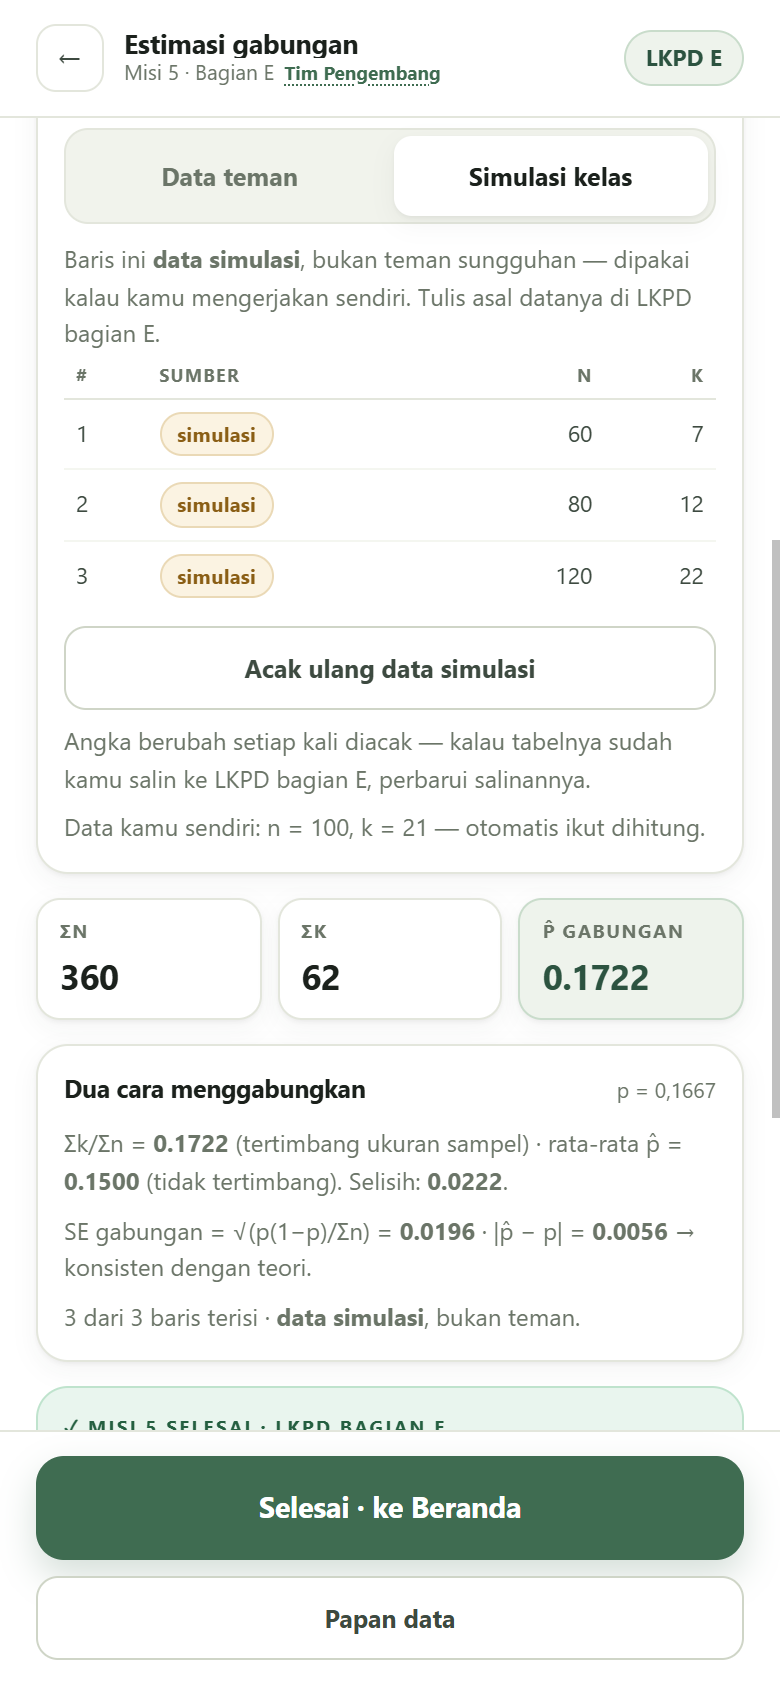
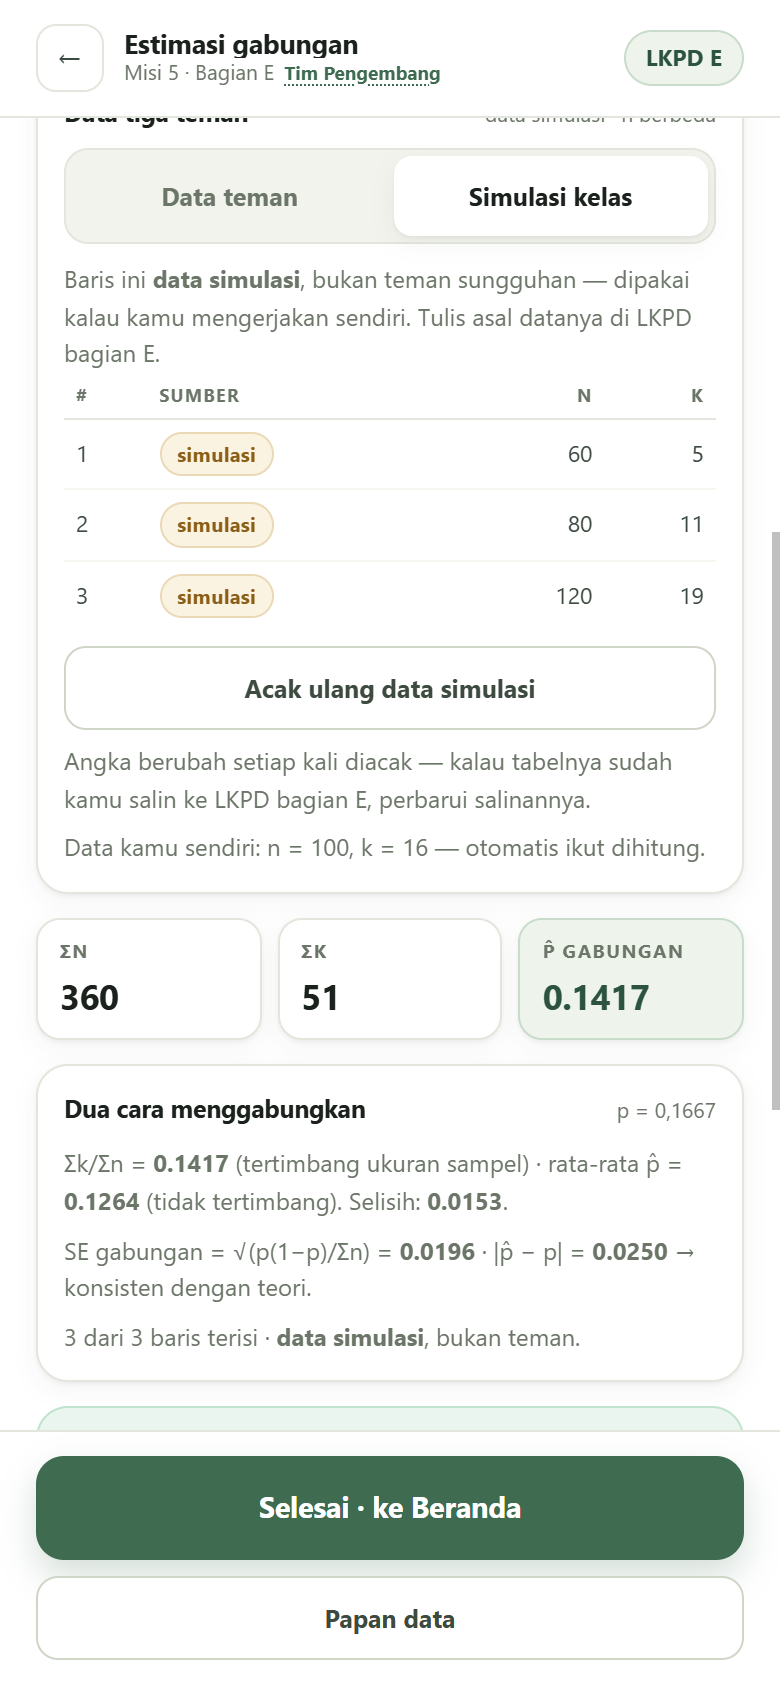
feat: pratinjau tabel kosong di mode Simulasi kelas Misi 5
Tabel tiga baris tetap tampil (n dan k berisi —) sebelum siswa menekan
Isi data simulasi, jadi bentuk tabelnya sudah terlihat lebih dulu.
Sekalian simpan artefak desain Misi 5 (mockup kontrol + screenshot).

diff --git a/docs/mockup-m5-kontrol.html b/docs/mockup-m5-kontrol.html
@@ -1,0 +1,216 @@
+<!DOCTYPE html>
+<html lang="id">
+<head>
+<meta charset="UTF-8">
+<meta name="viewport" content="width=device-width, initial-scale=1.0">
+<title>Mockup — kontrol sumber data Misi 5</title>
+<style>
+:root{
+  --paper:#f6f7f2;--bg:#fff;--ink:#1b211c;--ink-2:#3d4a40;--muted:#6b7568;
+  --line:#e3e6dc;--line-2:#cfd5c7;--accent:#3f6c51;--accent-soft:#eef3ec;--accent-line:#c9dccb;
+  --ochre:#8a5e15;--ochre-soft:#fbf3e2;--ochre-line:#ead9b6;
+  --ok:#2e7d53;--ok-soft:#e9f5ee;--ok-line:#bfe3cd;--bad:#a6403a;--bad-soft:#fbeceb;
+  --r:16px;--r-sm:12px;
+  --sh:0 1px 2px rgba(27,33,28,.05),0 4px 12px rgba(27,33,28,.05);
+  --sh-pop:0 10px 28px rgba(27,33,28,.10),0 2px 6px rgba(27,33,28,.05);
+}
+*{box-sizing:border-box}
+body{margin:0;background:#eef0e8;color:var(--ink);padding:28px 24px 40px;
+  font-family:"Segoe UI Variable Display","Segoe UI",system-ui,-apple-system,Roboto,Arial,sans-serif;
+  -webkit-font-smoothing:antialiased;line-height:1.45}
+.page-head{max-width:840px;margin:0 auto 22px}
+.page-head h1{font-size:20px;letter-spacing:-.02em;margin:0 0 4px}
+.page-head p{margin:0;font-size:13px;color:var(--muted)}
+.row{display:grid;grid-template-columns:repeat(2,390px);gap:20px 22px;align-items:start;justify-content:center;max-width:840px;margin:0 auto}
+.frame{width:390px;flex:0 0 auto;background:var(--bg);border:1px solid var(--line);border-radius:22px;
+  box-shadow:var(--sh-pop);overflow:hidden;display:flex;flex-direction:column}
+.f-head{padding:11px 14px;border-bottom:1px solid var(--line);background:#fcfdfa;display:flex;align-items:center;gap:8px}
+.f-tag{font-size:10px;font-weight:800;letter-spacing:.1em;text-transform:uppercase;color:#fff;
+  background:var(--ink);border-radius:6px;padding:3px 7px}
+.f-tag.rec{background:var(--accent)}
+.f-name{font-size:12.5px;font-weight:700}
+.f-body{padding:14px;display:flex;flex-direction:column;gap:11px;min-height:392px}
+.foot{padding:10px 14px;border-top:1px solid var(--line);background:#fcfdfa;font-size:11.5px;color:var(--muted)}
+.foot b{color:var(--ink-2)}
+
+.card{border:1px solid var(--line);border-radius:var(--r);background:#fff;box-shadow:var(--sh);overflow:hidden}
+.card-head{display:flex;align-items:center;justify-content:space-between;gap:8px;padding:10px 12px;border-bottom:1px solid var(--line)}
+.card-head b{font-size:13px}
+.card-head span{font-size:11px;color:var(--muted)}
+.card-in{padding:11px 12px}
+table{width:100%;border-collapse:collapse;font-size:12px}
+th{font-size:10px;letter-spacing:.06em;text-transform:uppercase;color:var(--muted);text-align:left;
+  padding:6px 6px;border-bottom:1px solid var(--line);font-weight:700}
+th.rt,td.rt{text-align:right}
+td{padding:6px 6px;border-bottom:1px solid #f0f2eb}
+tr:last-child td{border-bottom:0}
+.inp{width:100%;border:1px solid var(--line-2);border-radius:9px;padding:8px 8px;font:inherit;font-size:12px;background:#fff}
+.inp.num{text-align:right}
+.inp.ro{background:#f7f8f4;color:var(--ink-2)}
+.note{margin:8px 0 0;font-size:11.5px;color:var(--muted);line-height:1.5}
+.chip{display:inline-flex;align-items:center;gap:4px;border-radius:999px;padding:3px 8px;font-size:10.5px;font-weight:700}
+.chip.sim{background:var(--ochre-soft);color:var(--ochre);border:1px solid var(--ochre-line)}
+.chip.ok{background:var(--ok-soft);color:var(--ok);border:1px solid var(--ok-line)}
+
+/* A. toggle switch */
+.tgl-row{display:flex;align-items:center;justify-content:space-between;gap:10px;padding:2px 0}
+.tgl-lab{font-size:12px;font-weight:700;line-height:1.3}
+.tgl-lab em{display:block;font-style:normal;font-weight:400;font-size:10.5px;color:var(--muted)}
+.switch{width:48px;height:28px;border-radius:999px;background:var(--line-2);position:relative;flex:0 0 auto;transition:.18s}
+.switch.on{background:var(--accent)}
+.switch i{position:absolute;top:3px;left:3px;width:22px;height:22px;border-radius:50%;background:#fff;
+  box-shadow:0 1px 3px rgba(0,0,0,.25);transition:.18s}
+.switch.on i{left:23px}
+
+/* B. segmented */
+.segc{display:flex;background:#f1f3ec;border:1px solid var(--line);border-radius:12px;padding:3px;gap:3px}
+.segc button{flex:1;border:0;background:transparent;border-radius:9px;padding:10px 8px;font-size:12px;font-weight:700;color:var(--muted)}
+.segc button.on{background:#fff;color:var(--ink);box-shadow:var(--sh)}
+/* C. segmented 3 */
+.segc.three button{font-size:11px;padding:9px 4px}
+
+/* dropdown */
+.selwrap{position:relative}
+.selwrap select{width:100%;appearance:none;border:1px solid var(--line-2);border-radius:11px;background:#fff;
+  padding:11px 34px 11px 12px;font:inherit;font-size:12.5px;font-weight:650;color:var(--ink)}
+.selwrap:after{content:"▾";position:absolute;right:12px;top:50%;transform:translateY(-50%);color:var(--muted);font-size:12px;pointer-events:none}
+.cta{background:var(--accent);color:#fff;border-radius:12px;padding:13px;text-align:center;font-weight:800;font-size:13px}
+.cta.off{background:#e9ece3;color:#9aa294}
+.legend{max-width:840px;margin:22px auto 0;font-size:12px;color:var(--ink-2);line-height:1.6}
+.legend b{color:var(--ink)}
+</style>
+</head>
+<body>
+<div class="page-head">
+  <h1>Misi 5 — pilihan bentuk kontrol sumber data</h1>
+  <p>Frame 390 px, memakai token warna &amp; tipe yang sudah ada di index.html. Yang berubah hanya cara memilih sumber data.</p>
+</div>
+
+<div class="row">
+
+  <!-- A. TOGGLE -->
+  <div class="frame">
+    <div class="f-head"><span class="f-tag">A</span><span class="f-name">Toggle 2 keadaan</span></div>
+    <div class="f-body">
+      <div class="card">
+        <div class="card-head"><b>Data tiga teman</b><span>n dan k mereka</span></div>
+        <div class="card-in">
+          <div class="tgl-row">
+            <div class="tgl-lab">Pakai data simulasi<em>bukan teman — aktifkan kalau kamu buka sendiri</em></div>
+            <div class="switch"><i></i></div>
+          </div>
+        </div>
+      </div>
+      <div class="card">
+        <div class="card-in">
+          <table><thead><tr><th>#</th><th>nama</th><th class="rt">n</th><th class="rt">k</th></tr></thead><tbody>
+            <tr><td>1</td><td><input class="inp" value="Rani"></td><td class="rt"><input class="inp num" value="100"></td><td class="rt"><input class="inp num" value="17"></td></tr>
+            <tr><td>2</td><td><input class="inp" value="Bagas"></td><td class="rt"><input class="inp num" value="100"></td><td class="rt"><input class="inp num" value="14"></td></tr>
+            <tr><td>3</td><td><input class="inp" placeholder="nama"></td><td class="rt"><input class="inp num" placeholder="n"></td><td class="rt"><input class="inp num" placeholder="k"></td></tr>
+          </tbody></table>
+          <p class="note">Pilih "simulasi" → tiga baris terisi otomatis dan nama berganti chip <b>simulasi</b>.</p>
+        </div>
+      </div>
+      <div class="cta off">Isi 3 data teman dulu</div>
+    </div>
+    <div class="foot"><b>Kekuatan:</b> terlihat jelas, satu ketuk.<br><b>Kelemahan:</b> hanya dua keadaan — mode "tempel kode laporan" tidak punya tempat.</div>
+  </div>
+
+  <!-- B. SEGMENTED 2 -->
+  <div class="frame">
+    <div class="f-head"><span class="f-tag rec">B</span><span class="f-name">Segmented · 2 pilihan</span><span class="chip ok" style="margin-left:auto">usulan</span></div>
+    <div class="f-body">
+      <div class="card">
+        <div class="card-head"><b>Data tiga teman</b><span>n dan k mereka</span></div>
+        <div class="card-in">
+          <div class="segc">
+            <button class="on">Data teman</button>
+            <button>Tanpa teman</button>
+          </div>
+          <p class="note">Tanpa teman? Isi otomatis dengan data simulasi kelas.</p>
+        </div>
+      </div>
+      <div class="card">
+        <div class="card-in">
+          <table><thead><tr><th>#</th><th>nama</th><th class="rt">n</th><th class="rt">k</th></tr></thead><tbody>
+            <tr><td>1</td><td><input class="inp" value="Rani"></td><td class="rt"><input class="inp num" value="100"></td><td class="rt"><input class="inp num" value="17"></td></tr>
+            <tr><td>2</td><td><input class="inp" value="Bagas"></td><td class="rt"><input class="inp num" value="80"></td><td class="rt"><input class="inp num" value="11"></td></tr>
+            <tr><td>3</td><td><input class="inp" placeholder="nama"></td><td class="rt"><input class="inp num" placeholder="n"></td><td class="rt"><input class="inp num" placeholder="k"></td></tr>
+          </tbody></table>
+          <p class="note">Cara lain: <b>tempel kode laporan</b> teman → (tautan kecil di bawah tabel)</p>
+        </div>
+      </div>
+      <div class="cta off">Isi 3 data teman dulu</div>
+    </div>
+    <div class="foot"><b>Kekuatan:</b> dua opsi terbaca sekaligus, target ketuk besar, tanpa menu tersembunyi.<br><b>Kelemahan:</b> mode kode laporan harus jadi aksi sekunder.</div>
+  </div>
+
+  <!-- C. SEGMENTED 3 -->
+  <div class="frame">
+    <div class="f-head"><span class="f-tag">C</span><span class="f-name">Segmented · 3 pilihan</span></div>
+    <div class="f-body">
+      <div class="card">
+        <div class="card-head"><b>Data tiga teman</b><span>pilih sumber</span></div>
+        <div class="card-in">
+          <div class="segc three">
+            <button class="on">Isi manual</button>
+            <button>Tempel kode</button>
+            <button>Simulasi</button>
+          </div>
+          <p class="note">Isi n dan k dari Papan Data Misi 3 temanmu.</p>
+        </div>
+      </div>
+      <div class="card">
+        <div class="card-in">
+          <table><thead><tr><th>#</th><th>nama</th><th class="rt">n</th><th class="rt">k</th></tr></thead><tbody>
+            <tr><td>1</td><td><input class="inp" value="Rani"></td><td class="rt"><input class="inp num" value="100"></td><td class="rt"><input class="inp num" value="17"></td></tr>
+            <tr><td>2</td><td><input class="inp" value="Bagas"></td><td class="rt"><input class="inp num" value="80"></td><td class="rt"><input class="inp num" value="11"></td></tr>
+            <tr><td>3</td><td><input class="inp" placeholder="nama"></td><td class="rt"><input class="inp num" placeholder="n"></td><td class="rt"><input class="inp num" placeholder="k"></td></tr>
+          </tbody></table>
+        </div>
+      </div>
+      <div class="cta off">Isi 3 data teman dulu</div>
+    </div>
+    <div class="foot"><b>Kekuatan:</b> ketiga jalan setara &amp; kelihatan.<br><b>Kelemahan:</b> label menyempit di 390 px; "isi manual" vs "tempel kode" terasa teknis bagi siswa.</div>
+  </div>
+
+  <!-- D. DROPDOWN -->
+  <div class="frame">
+    <div class="f-head"><span class="f-tag">D</span><span class="f-name">Dropdown</span></div>
+    <div class="f-body">
+      <div class="card">
+        <div class="card-head"><b>Data tiga teman</b><span>cara isi</span></div>
+        <div class="card-in">
+          <div class="selwrap">
+            <select>
+              <option>Teman sekelas · isi manual</option>
+              <option>Tempel kode laporan teman</option>
+              <option>Simulasi kelas · tanpa teman</option>
+            </select>
+          </div>
+          <p class="note">Isi n dan k dari Papan Data Misi 3 temanmu.</p>
+        </div>
+      </div>
+      <div class="card">
+        <div class="card-in">
+          <table><thead><tr><th>#</th><th>nama</th><th class="rt">n</th><th class="rt">k</th></tr></thead><tbody>
+            <tr><td>1</td><td><input class="inp" value="Rani"></td><td class="rt"><input class="inp num" value="100"></td><td class="rt"><input class="inp num" value="17"></td></tr>
+            <tr><td>2</td><td><input class="inp" value="Bagas"></td><td class="rt"><input class="inp num" value="80"></td><td class="rt"><input class="inp num" value="11"></td></tr>
+            <tr><td>3</td><td><input class="inp" placeholder="nama"></td><td class="rt"><input class="inp num" placeholder="n"></td><td class="rt"><input class="inp num" placeholder="k"></td></tr>
+          </tbody></table>
+        </div>
+      </div>
+      <div class="cta off">Isi 3 data teman dulu</div>
+    </div>
+    <div class="foot"><b>Kekuatan:</b> paling ringkas, tiga opsi tanpa label sempit.<br><b>Kelemahan:</b> opsi simulasi tersembunyi di balik satu ketukan — justru siswa yang butuh yang paling jarang menemukannya.</div>
+  </div>
+
+</div>
+
+<div class="legend">
+  <b>Catatan yang berlaku untuk semua varian:</b> begitu mode simulasi aktif, kolom nama berisi chip <b>simulasi</b>
+  (bukan nama orang), n-nya 60/80/120 supaya Σk/Σn ≠ rata-rata p̂, dan ada tombol sekunder <b>Acak ulang</b>.
+  Papan Data menandai sumber tiap baris, dan format kode laporan 7 karakter tidak berubah.
+</div>
+</body>
+</html>

diff --git a/src/app.js b/src/app.js
@@ -497,13 +497,20 @@
     var baris = "";
 
     if (sim && !simSiap) {
-      /* mode simulasi dipilih tapi belum diisi: beri ruang baca dulu,
-         data baru dibuat setelah tombol di panel ini ditekan. */
+      /* mode simulasi dipilih tapi belum diisi: tabel tetap ditampilkan
+         sebagai pratinjau kosong, isinya baru muncul setelah tombol ditekan. */
+      var kosong = [0, 1, 2].map(function (i) {
+        return '<tr><td>' + (i + 1) + "</td>" +
+          '<td><span class="simp">simulasi</span></td>' +
+          '<td class="n">—</td><td class="n">—</td></tr>';
+      }).join("");
       return instruksiBox(5) +
         '<div class="panel"><div class="panel-head"><b>Data tiga teman</b><span>belum diisi</span></div>' +
         m5ModeBar(r) +
         '<p class="note">Mode <b>Simulasi kelas</b> mengisi tabel dengan hasil pengacakan <b>60, 80, dan 120 lemparan dadu</b> (peluang sukses 1/6). n-nya sengaja berbeda supaya Σk/Σn dan rata-rata p̂ tidak sama — itu poin inti misi ini.</p>' +
         '<p class="note">Angka ini <b>bukan teman sekelas</b>. Pakai kalau kamu mengerjakan sendiri, dan tulis asal datanya di <b>LKPD bagian E</b>.</p>' +
+        '<table><thead><tr><th>#</th><th>sumber</th><th class="rt">n</th><th class="rt">k</th></tr></thead><tbody>' +
+        kosong + "</tbody></table>" +
         '<div class="btn-row"><button class="mini-btn" data-act="m5isi">Isi data simulasi</button></div>' +
         '<p class="note">Belum yakin? Kembali ke <b>Data teman</b> di atas kalau kamu punya kode laporan Misi 3 temanmu.</p></div>';
     }
